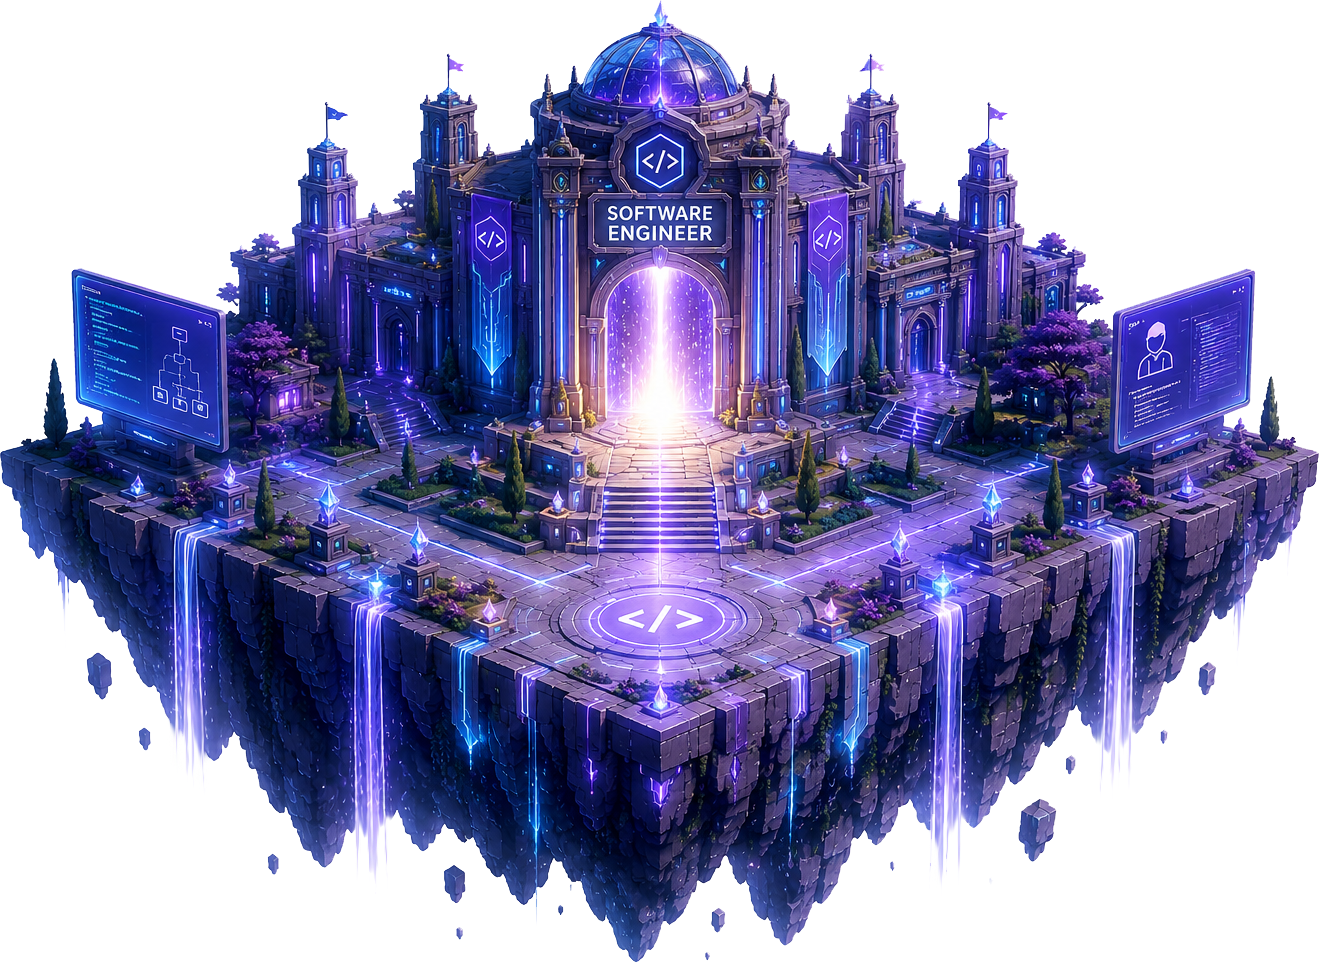
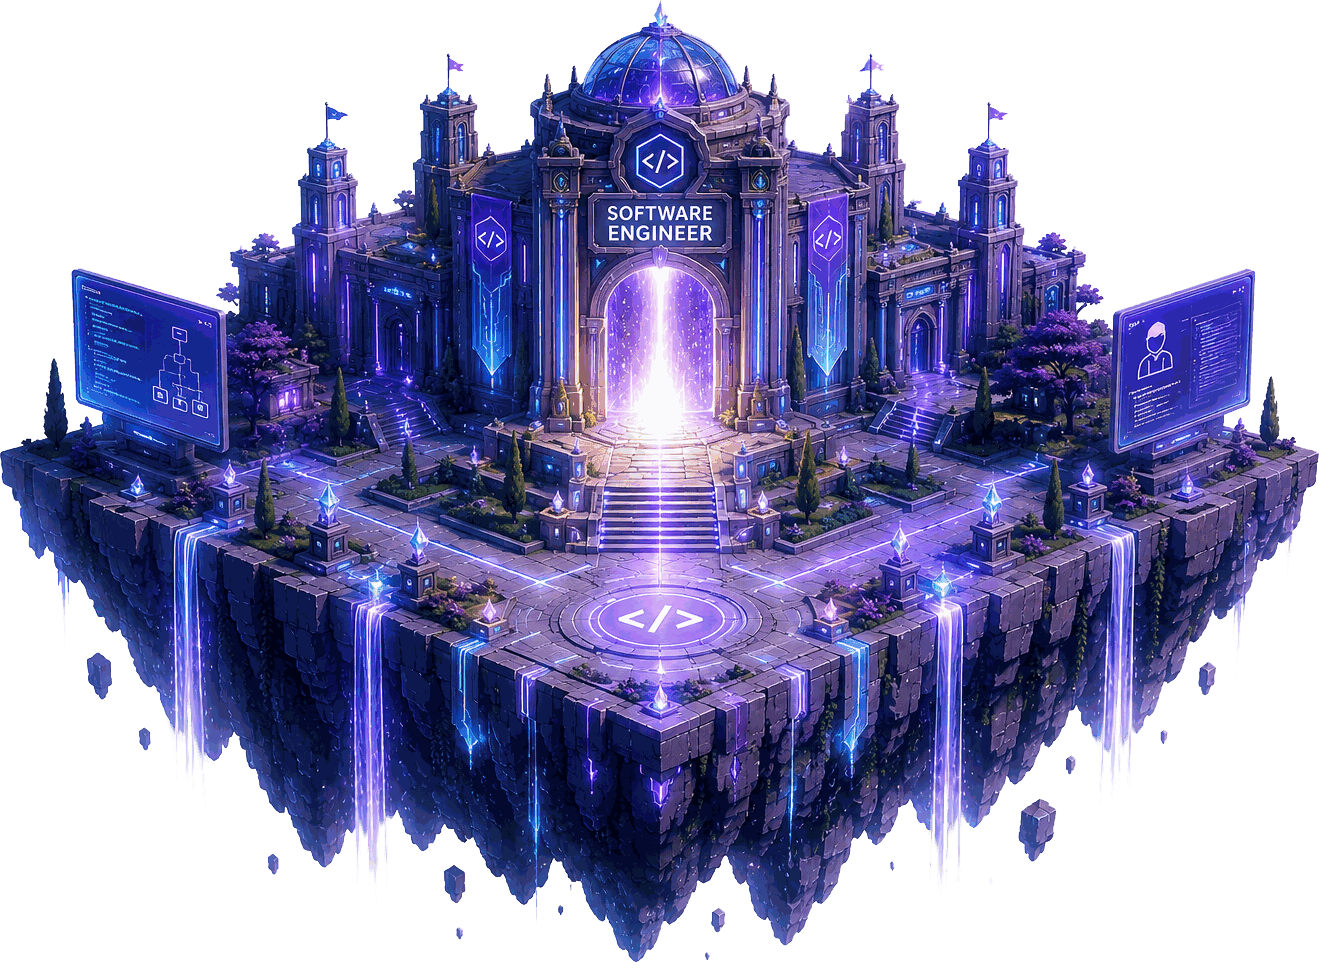
Единая фотография интервьюера для всех профессий; сжаты interview_man и island_software_engineer

diff --git a/src/screens/InterviewTrainerScreen/components/InterviewerAvatar.tsx b/src/screens/InterviewTrainerScreen/components/InterviewerAvatar.tsx
@@ -1,10 +1,18 @@
 import { useState } from 'react';
 
+// NOTE (2026-07-13): there's only one interviewer photo in the app — Serj
+// decided to use a single shared image for every profession instead of a
+// separate one per profession (the other two professions previously had
+// placeholder copies of this same photo). The `professionId` prop is kept
+// (still used for other art in this screen/elsewhere) but is intentionally
+// not used to build this particular path anymore.
+const SHARED_INTERVIEWER_IMAGE = '/art/software_engineer/interview_man.jpg';
+
 interface InterviewerAvatarProps {
   professionId: string;
 }
 
-export function InterviewerAvatar({ professionId }: InterviewerAvatarProps) {
+export function InterviewerAvatar({ professionId: _professionId }: InterviewerAvatarProps) {
   const [hidden, setHidden] = useState(false);
   const [isFallback, setIsFallback] = useState(false);
 
@@ -13,7 +21,7 @@ export function InterviewerAvatar({ professionId }: InterviewerAvatarProps) {
   return (
     <div className="interview-photo">
       <img
-        src={`/art/${professionId}/interview_man.png`}
+        src={SHARED_INTERVIEWER_IMAGE}
         alt="Interviewer"
         onError={(e) => {
           if (!hidden) {

diff --git a/PROJECT_STATUS.md b/PROJECT_STATUS.md
@@ -3142,3 +3142,19 @@ Serj: интервью-тренажёр после прохождения все
 
 **Проверено:** `npx tsc --noEmit` — 26 ошибок (было 27; убрана ошибка про несуществующий `interview_question`-тип; оставшиеся 26 — всё ещё только в `cybersecurity/skill_nodes_extended.ts`, не связаны с этой правкой). `npx vite build` — чисто.
 **Не проверено вживую на телефоне.** Проверить: (1) Cybersecurity → пройти интервью-тренажёр → вопросы про security, а не про Software Engineer. (2) Cybersecurity → World/Journey/финальная анимация/аватар интервьюера — везде видны цветные заглушки с подписью вместо пустоты. (3) Data Analyst → финальная анимация и аватар интервьюера тоже показывают заглушку, а не пустое место. (4) Software Engineer — регрессия, всё как было.
+
+### 2026-07-13 — Claude (единая фотография интервьюера + сжатие двух тяжёлых картинок)
+
+Serj подтвердил вопрос: у Data Analyst свой набор вопросов интервью-тренажёра — да, был подключён в `QUESTION_MAP` уже раньше (менялся только Cybersecurity в этой сессии). Также попросил: (1) использовать одну и ту же фотографию интервьюера для всех профессий вместо отдельной на каждую, (2) уменьшить вес `interview_man.png` и `island_software_engineer.png`.
+
+**Единая фотография интервьюера:**
+`InterviewerAvatar.tsx` раньше строил путь как `/art/${professionId}/interview_man.png` — то есть на каждую профессию требовался свой файл (у Data Analyst и Cybersecurity это были просто сгенерированные заглушки-дубликаты одной и той же идеи). Переписано на константу `SHARED_INTERVIEWER_IMAGE = '/art/software_engineer/interview_man.jpg'`, используемую для всех профессий. `professionId`-проп компонента сохранён в сигнатуре (не используется для этого пути, но может использоваться где-то ещё в файле/по контракту), просто помечен как неиспользуемый. Дублирующиеся файлы `public/art/data_analyst/interview_man.png` и `public/art/cybersecurity/interview_man.png` удалены — они больше нигде не читаются.
+
+**Сжатие:**
+- `interview_man.png` (1.67 МБ, PNG без альфа-канала, то есть без прозрачности) переконвертирован в JPEG (`interview_man.jpg`, качество 85) — **164 КБ, в ~10 раз меньше**, видимой потери качества нет. Старый `.png` удалён, единственная ссылка на файл (`InterviewerAvatar.tsx`) обновлена на `.jpg`.
+- `island_software_engineer.png` (1.84 МБ) содержит настоящую прозрачность (остров без фона) — JPEG не подходит, формат оставлен PNG. Сжат через квантизацию до 256 цветов (Fast Octree) с сохранением альфа-канала и полного разрешения — **412 КБ, в ~4.4 раза меньше**, визуально идентичен на глаз (проверено сравнением).
+
+**Файлы:** `src/screens/InterviewTrainerScreen/components/InterviewerAvatar.tsx`, `public/art/software_engineer/interview_man.jpg` (создан, заменяет `.png`), `public/art/software_engineer/interview_man.png` (удалён), `public/art/data_analyst/interview_man.png` (удалён), `public/art/cybersecurity/interview_man.png` (удалён), `public/art/software_engineer/island_software_engineer.png` (сжат на месте), `PROJECT_STATUS.md`.
+
+**Проверено:** `npx tsc --noEmit` — 26 ошибок, без изменений (все в `cybersecurity/skill_nodes_extended.ts`, не связаны). `npx vite build` — чисто.
+**Не проверено вживую на телефоне.** Проверить: (1) интервью-тренажёр в любой профессии показывает ту же самую фотографию интервьюера. (2) Финальная анимация Software Engineer — здание острова выглядит так же чётко, как раньше (регрессия по качеству картинки).
